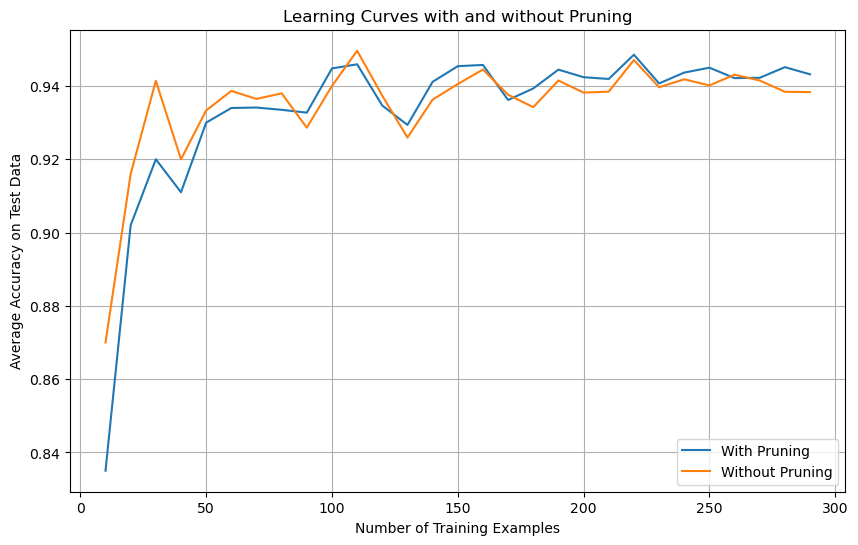
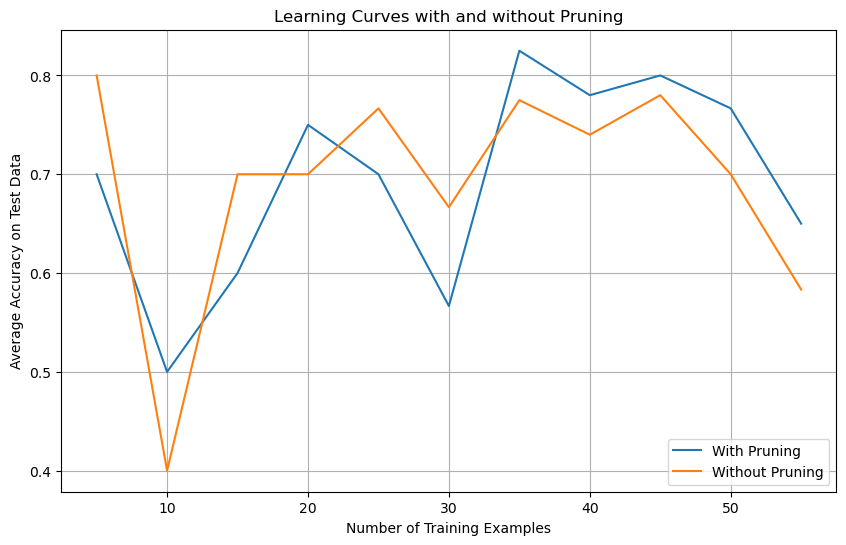
update bug in recursion

diff --git a/homework-1/plot.py b/homework-1/plot.py
@@ -1,180 +1,192 @@
-import matplotlib.pyplot as plt
-import random
-import ID3
-import parse
 import math
+import random
 
-save_path = './images/learning_curve.png'
+import ID3
+import matplotlib.pyplot as plt
+import parse
 
-def plot_accuracy(training_sizes, avg_accuracies_with_pruning, avg_accuracies_without_pruning, save_path):
+save_path = "./images/learning_curve.png"
+
+
+def plot_accuracy(
+    training_sizes,
+    avg_accuracies_with_pruning,
+    avg_accuracies_without_pruning,
+    save_path,
+):
     """
     Plot learning curves.
+
     Args:
-    - training_sizes: List of training set sizes
-    - avg_accuracies_with_pruning: List of average accuracies with pruning
-    - avg_accuracies_without_pruning: List of average accuracies without pruning
+        training_sizes: List of training set sizes
+        avg_accuracies_with_pruning: List of average accuracies with pruning
+        avg_accuracies_without_pruning: List of average accuracies
+                                        without pruning
     """
     plt.figure(figsize=(10, 6))
-    plt.plot(training_sizes, avg_accuracies_with_pruning, label='With Pruning')
-    plt.plot(training_sizes, avg_accuracies_without_pruning, label='Without Pruning')
-    plt.xlabel('Number of Training Examples')
-    plt.ylabel('Average Accuracy on Test Data')
-    plt.title('Learning Curves with and without Pruning')
+    plt.plot(training_sizes, avg_accuracies_with_pruning, label="With Pruning")
+    plt.plot(training_sizes, avg_accuracies_without_pruning, label="Without Pruning")
+    plt.xlabel("Number of Training Examples")
+    plt.ylabel("Average Accuracy on Test Data")
+    plt.title("Learning Curves with and without Pruning")
     plt.legend()
     plt.grid(True)
     # save the plot as an image if save_path is provided
     if save_path:
-        plt.savefig(save_path, bbox_inches='tight')
+        plt.savefig(save_path, bbox_inches="tight")
     plt.show()
+
 
 # inFile - string location of the house data file
 def testPruningOnHouseData(inFile):
     data = parse.parse(inFile)
     avg_test_accuracy_with_pruning = []
-    avg_test_accuracy_without_pruning  = []
-    training_sizes = range(10, min(300, len(data)), 10)  # Adjusted to handle smaller datasets
+    avg_test_accuracy_without_pruning = []
+    training_sizes = range(
+        10, min(300, len(data)), 10
+    )  # Adjusted to handle smaller datasets
     for train_size in training_sizes:
         withPruning = []
         withoutPruning = []
         data = parse.parse(inFile)
         for _ in range(100):
-            random.shuffle(data)#Cross validated-"mention in pdf"
+            random.shuffle(data)  # Cross validated-"mention in pdf"
             # Calculate the sizes for validation, and test sets
-            validation_size = math.ceil((int(train_size/0.8)-train_size)//2)
+            validation_size = math.ceil((int(train_size / 0.8) - train_size) // 2)
             test_size = validation_size
 
             train = data[:train_size]
-            valid = data[train_size:train_size+validation_size]
-            test = data[train_size+validation_size:train_size+validation_size+test_size]
+            valid = data[train_size : train_size + validation_size]
+            test = data[
+                train_size + validation_size : train_size + validation_size + test_size
+            ]
 
-            tree = ID3.ID3(train, "democrat")
-            acc = ID3.test(tree, train)
-            print("training accuracy: ", acc)
-            acc = ID3.test(tree, valid)
-            print("validation accuracy: ", acc)
-            acc = ID3.test(tree, test)
-            print("test accuracy: ", acc)
-
+            tree = ID3.ID3(train, 0)
             ID3.prune(tree, valid)
-            acc = ID3.test(tree, train)
-            print("pruned tree train accuracy: ", acc)
-            acc = ID3.test(tree, valid)
-            print("pruned tree validation accuracy: ", acc)
             acc = ID3.test(tree, test)
-            print("pruned tree test accuracy: ", acc)
             withPruning.append(acc)
-            tree = ID3.ID3(train + valid, "democrat")
+            tree = ID3.ID3(train + valid, 0)
             acc = ID3.test(tree, test)
-            print("no pruning test accuracy: ", acc)
             withoutPruning.append(acc)
 
-        # calculate average accuracy for this training set size
         avg_accuracy_with_pruning = sum(withPruning) / len(withPruning)
         avg_accuracy_without_pruning = sum(withoutPruning) / len(withoutPruning)
+        print("pruned tree test accuracy: ", avg_accuracy_with_pruning)
+        print("not pruned tree test accuracy: ", avg_accuracy_without_pruning)
 
         avg_test_accuracy_with_pruning.append(avg_accuracy_with_pruning)
         avg_test_accuracy_without_pruning.append(avg_accuracy_without_pruning)
 
-    plot_accuracy(training_sizes, avg_test_accuracy_with_pruning, avg_test_accuracy_without_pruning, save_path)
+    plot_accuracy(
+        training_sizes,
+        avg_test_accuracy_with_pruning,
+        avg_test_accuracy_without_pruning,
+        save_path,
+    )
+
 
 # inFile - string location of the house data file
 def testPruningOnTennisData(inFile):
     data = parse.parse(inFile)
     avg_test_accuracy_with_pruning = []
-    avg_test_accuracy_without_pruning  = []
-    training_sizes = range(1, min(8, len(data)), 1)  # Adjusted to handle smaller datasets
+    avg_test_accuracy_without_pruning = []
+    training_sizes = range(
+        1, min(8, len(data)), 1
+    )  # Adjusted to handle smaller datasets
     for train_size in training_sizes:
         withPruning = []
         withoutPruning = []
         data = parse.parse(inFile)
         for _ in range(5):
-            random.shuffle(data)#Cross validated-"mention in pdf"
+            random.shuffle(data)  # Cross validated-"mention in pdf"
             # Calculate the sizes for validation, and test sets
-            validation_size = max(1, math.ceil((int(train_size/0.5)-train_size)//2))
-            test_size= validation_size
+            validation_size = max(
+                1, math.ceil((int(train_size / 0.5) - train_size) // 2)
+            )
+            test_size = validation_size
 
             train = data[:train_size]
-            valid = data[train_size:train_size+validation_size]
-            test = data[train_size+validation_size:train_size+validation_size+test_size]
-            print(train_size,validation_size,test_size)
+            valid = data[train_size : train_size + validation_size]
+            test = data[
+                train_size + validation_size : train_size + validation_size + test_size
+            ]
+            print(train_size, validation_size, test_size)
 
             tree = ID3.ID3(train, 0)
-            acc = ID3.test(tree, train)
-            print("training accuracy: ", acc)
-            acc = ID3.test(tree, valid)
-            print("validation accuracy: ", acc)
-            acc = ID3.test(tree, test)
-            print("test accuracy: ", acc)
-
             ID3.prune(tree, valid)
-            acc = ID3.test(tree, train)
-            print("pruned tree train accuracy: ", acc)
-            acc = ID3.test(tree, valid)
-            print("pruned tree validation accuracy: ", acc)
             acc = ID3.test(tree, test)
-            print("pruned tree test accuracy: ", acc)
             withPruning.append(acc)
             tree = ID3.ID3(train + valid, 0)
             acc = ID3.test(tree, test)
-            print("no pruning test accuracy: ", acc)
             withoutPruning.append(acc)
 
-        # calculate average accuracy for this training set size
         avg_accuracy_with_pruning = sum(withPruning) / len(withPruning)
         avg_accuracy_without_pruning = sum(withoutPruning) / len(withoutPruning)
+        print("pruned tree test accuracy: ", avg_accuracy_with_pruning)
+        print("not pruned tree test accuracy: ", avg_accuracy_without_pruning)
 
         avg_test_accuracy_with_pruning.append(avg_accuracy_with_pruning)
         avg_test_accuracy_without_pruning.append(avg_accuracy_without_pruning)
 
-    plot_accuracy(training_sizes, avg_test_accuracy_with_pruning, avg_test_accuracy_without_pruning, save_path)
+    plot_accuracy(
+        training_sizes,
+        avg_test_accuracy_with_pruning,
+        avg_test_accuracy_without_pruning,
+        save_path,
+    )
+
 
 # inFile - string location of the house data file
 def testPruningOnCandyData(inFile):
     data = parse.parse(inFile)
     avg_test_accuracy_with_pruning = []
-    avg_test_accuracy_without_pruning  = []
-    training_sizes = range(5, min(30, len(data)), 5)  # Adjusted to handle smaller datasets
+    avg_test_accuracy_without_pruning = []
+    training_sizes = range(
+        5, min(60, len(data)), 5
+    )  # Adjusted to handle smaller datasets
     for train_size in training_sizes:
         withPruning = []
         withoutPruning = []
         data = parse.parse(inFile)
         for _ in range(10):
-            random.shuffle(data)#Cross validated-"mention in pdf"
+            random.shuffle(data)  # Cross validated-"mention in pdf"
             # Calculate the sizes for validation, and test sets
-            validation_size = max(1, math.ceil((int(train_size/0.6) - train_size) // 2))
+            validation_size = max(
+                1, math.ceil((int(train_size / 0.8) - train_size) // 2)
+            )
             test_size = validation_size
-            print(train_size,validation_size,test_size)
+            print(train_size, validation_size, test_size)
             train = data[:train_size]
-            valid = data[train_size:train_size+validation_size]
-            test = data[train_size+validation_size:train_size+validation_size+test_size]
+            valid = data[train_size : train_size + validation_size]
+            test = data[
+                train_size + validation_size : train_size + validation_size + test_size
+            ]
 
             tree = ID3.ID3(train, 0)
-            acc = ID3.test(tree, train)
-            print("training accuracy: ", acc)
-            acc = ID3.test(tree, valid)
-            print("validation accuracy: ", acc)
-            acc = ID3.test(tree, test)
-            print("test accuracy: ", acc)
-
             ID3.prune(tree, valid)
-            acc = ID3.test(tree, train)
-            print("pruned tree train accuracy: ", acc)
-            acc = ID3.test(tree, valid)
-            print("pruned tree validation accuracy: ", acc)
             acc = ID3.test(tree, test)
-            print("pruned tree test accuracy: ", acc)
             withPruning.append(acc)
             tree = ID3.ID3(train + valid, 0)
             acc = ID3.test(tree, test)
-            print("no pruning test accuracy: ", acc)
             withoutPruning.append(acc)
 
-        # calculate average accuracy for this training set size
         avg_accuracy_with_pruning = sum(withPruning) / len(withPruning)
         avg_accuracy_without_pruning = sum(withoutPruning) / len(withoutPruning)
+        print("pruned tree test accuracy: ", avg_accuracy_with_pruning)
+        print("not pruned tree test accuracy: ", avg_accuracy_without_pruning)
 
         avg_test_accuracy_with_pruning.append(avg_accuracy_with_pruning)
         avg_test_accuracy_without_pruning.append(avg_accuracy_without_pruning)
 
-    plot_accuracy(training_sizes, avg_test_accuracy_with_pruning, avg_test_accuracy_without_pruning, save_path)
+    plot_accuracy(
+        training_sizes,
+        avg_test_accuracy_with_pruning,
+        avg_test_accuracy_without_pruning,
+        save_path,
+    )
 
+
+if __name__ == "__main__":
+    testPruningOnHouseData(inFile="house_votes_84.data")
+    testPruningOnTennisData(inFile="tennis.data")
+    testPruningOnCandyData(inFile="candy.data")

diff --git a/homework-1/ID3.py b/homework-1/ID3.py
@@ -76,8 +76,9 @@ def ID3_helper(examples, attributes, missing_values="keep"):
         node.update_as_leaf()
         return node
 
-    # if no attributes remaining, update as leaf and use most common class
-    if not attributes:
+    # if no attributes remaining or if no examples remaining, update as leaf
+    # and use most common class
+    if not attributes or len(examples) == 0:
         node.update_as_leaf()
         return node
 
@@ -109,7 +110,7 @@ def ID3_helper(examples, attributes, missing_values="keep"):
         child_attributes = set(
             attribute for attribute in attributes if attribute != best_attribute
         )
-        child_node = ID3(child_examples, child_attributes)
+        child_node = ID3_helper(child_examples, child_attributes)
         node.add_child(best_attribute_value, child_node)
     return node
 
